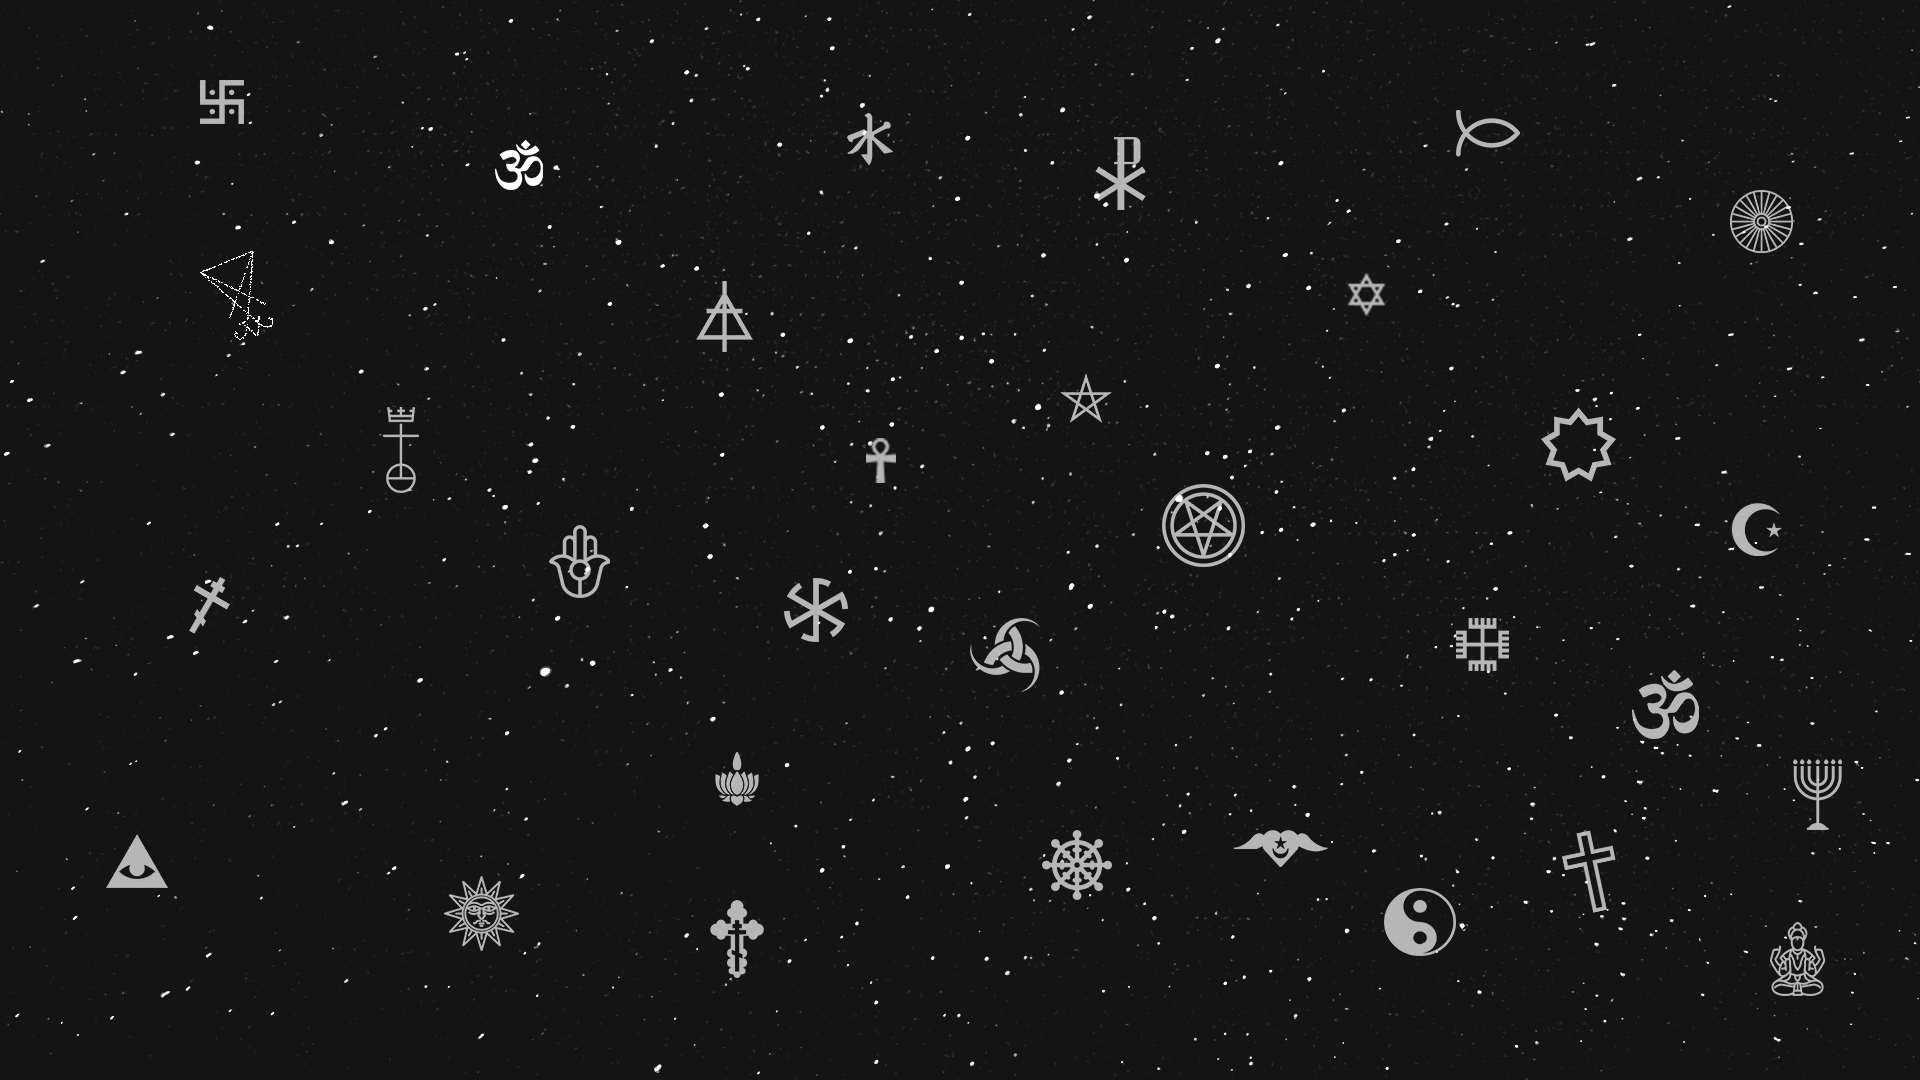
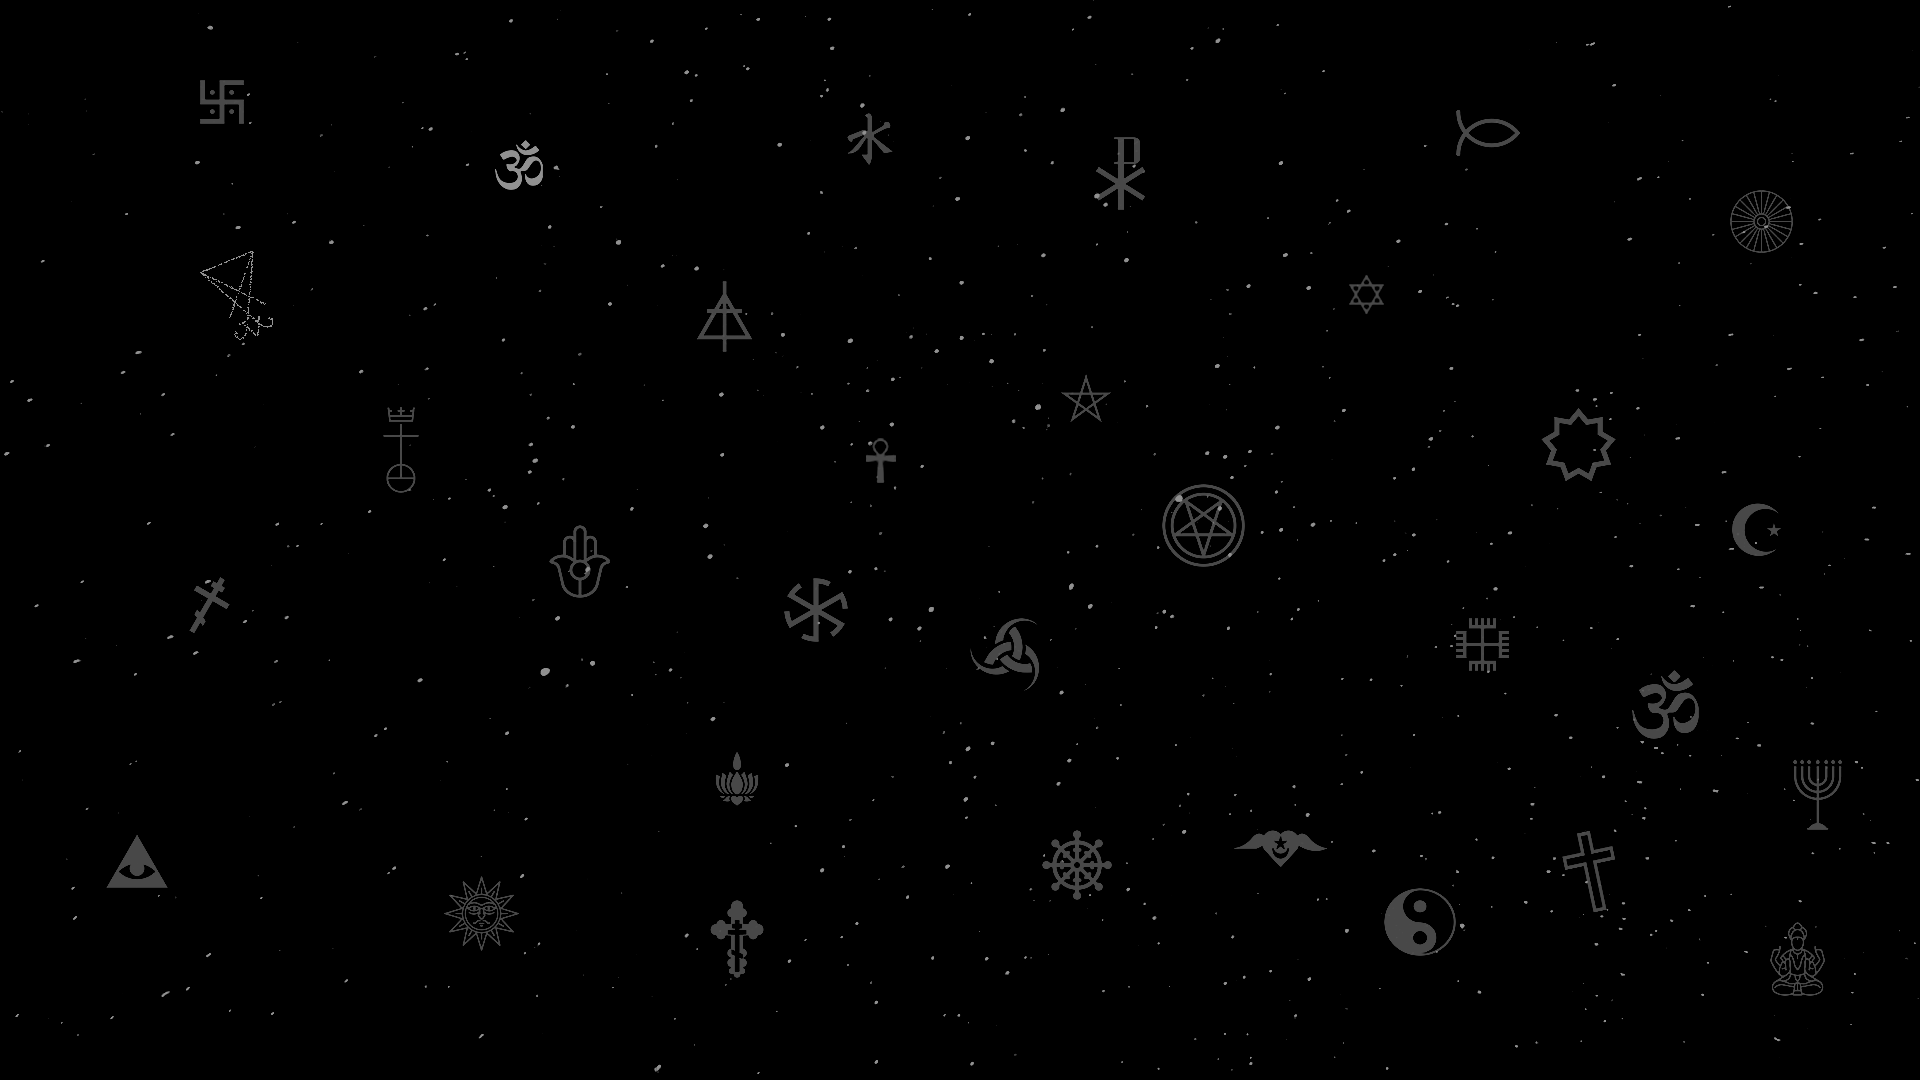
fundo mais escuro

diff --git a/index.html b/index.html
@@ -2,8 +2,8 @@
 <html>
   <head>
     <meta charset="utf-8">
-	<link rel="icon" type="image/png" href="">
     <title>Iandro Antônio - Editor | Videomaker</title>
+	<link rel="icon" href="img/logo.png">
     <meta name="viewport" content="width=device-width, initial-scale=1.0">
     <meta name="generator" content="Codeply">
     <link rel="stylesheet" href="css/bootstrap.min.css" />
@@ -52,8 +52,8 @@
     </nav>
     <header id="first">
 		<div class="header-content">
-		<br><br><br><br><br><br><br><br><br><BR>
-		
+				<img src="img/nome.png" height="40%" width="40%">
+				<br>
                 <a href="#one" class="btn btn-primary btn-xl page-scroll" ><strong>Saiba Mais</strong></a>
 			</div>
         </div>

diff --git a/css/styles.css b/css/styles.css
@@ -232,7 +232,7 @@ header {
     color: #fff;
     width: 100%;
     background-color: #c9c9c9;
-    background-image: url('../img/fundo site.jpg');
+    background-image: url('../img/fundo site.png');
     background-position: center;
     -webkit-background-size: cover;
     -moz-background-size: cover;
